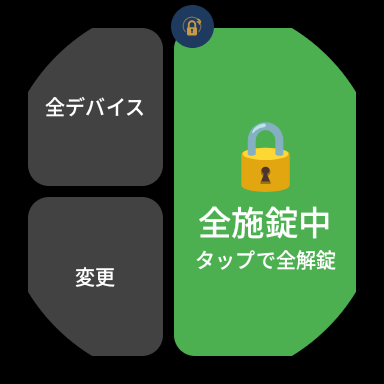
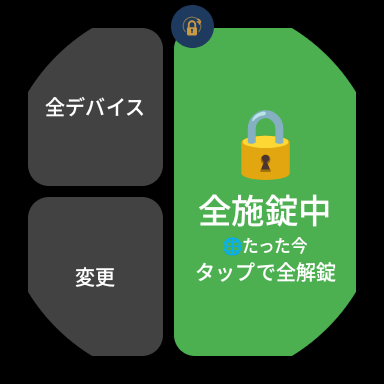
chore: 0.13.0のリリース確定とストア掲載情報の更新 (BL-154 / BL-196 / BL-197 / BL-198) (#57)
* chore: 🚀 0.13.0のリリース準備を行う (BL-154 / BL-196)

* docs: 📸 0.13.0の掲載スクリーンショットを撮り直す (BL-197 / BL-198)

* docs: :memo: update settings vscode

Changed region(s): [[0.5, 0.2812, 0.875, 0.75]]

diff --git a/docs/records/managed/BACKLOG.md b/docs/records/managed/BACKLOG.md
@@ -5,6 +5,62 @@
 
 <!-- COPILOT_RECORDS:BEGIN -->
 ```yaml
+- id: BL-198
+  区分: 人手検証
+  タスク内容: >-
+    Wear OS用の掲載スクリーンショット6枚（`docs/store/images/screenshots/wear_1`〜`wear_6`）を
+    0.13.0の表示へ撮り直す。現行は2026-09-06撮影で、0.13.0でタイルに加わった経路の印
+    （🔗＝Bluetooth / 🌐＝インターネット）と最終取得時刻が写っていない。
+    2026-09-21にWear OSエミュレータ（AVD `wearos`、Wear OS 5 / 384x384）で撮影を試み、
+    `SesameWearDebugReceiver`でデバイス一覧と状態（`route BLE`）を注入してタイルを表示するところ
+    までは成功したが、**タイルの右チップが常に「スマホ未接続」表示になるため掲載には使えない**
+    （2台のエミュレータはペア設定できない。`docs/INSTALL.md`「1.8」）。
+    Pixel Watch 2実機をadb接続して撮り直す。撮影手順はSkill `realmachine-verification`第4節、
+    加工と保存先はSkill `store-screenshot-capture`。
+    2026-09-21に実機で`wear_2_tile_locked.png`（全施錠中）と`wear_3_tile_unlocked.png`（全解錠中）を
+    撮り直し済み。どちらも経路の印（🌐）と「たった今」が写っている。`wear_5_unlock_confirm.png`は
+    撮り直した画像が既存とバイト単位で一致したため差し替え不要（0.13.0でも表示が変わっていない）。
+    **残りは`wear_1_complication.png`（文字盤の編集が必要）、`wear_4_tile_mixed.png`
+    （1台だけ解錠した状態を作る必要があり、タイルの対象切り替えの反映が不安定で断念）、
+    `wear_6_device_select.png`（実デバイス名が写るためモザイクか、ダミーのデバイス一覧が必要）の3点。**
+    ダミーのデバイス一覧は`SesameWearDebugReceiver`の`--es devices`で注入できるが、
+    2026-09-21の実機では`devices injected: count=2`まで成功しながらタイルの表示名がuuidのままで、
+    名前が反映されなかった（個別の状態注入は反映される）。ここを解決すれば実鍵を動かさずに
+    残り3点を作れる。
+  優先度: P3
+  状態: 進行中
+  担当: ユーザー
+  完了条件: >-
+    タイルの各状態・解錠確認・デバイス選択・コンプリケーションが0.13.0の表示で撮り直され、
+    `docs/store/images/screenshots/` と Play ConsoleのWear OS用の枠へ反映されていること。
+    2026-09-21にタイルの施錠中・解錠中の2点を反映済みで、コンプリケーション・一部解錠・
+    デバイス選択の3点が未実施
+  根拠: >-
+    Wear OS実機を要するため人手検証とする。エミュレータで代替できないことは2026-09-21に確認済み
+  依存: []
+
+- id: BL-197
+  区分: 人手検証
+  タスク内容: >-
+    0.13.0の配信（2026-09-21に両トラックで公開中）を受けて、Play Consoleのストア掲載情報を
+    差し替える。スマートフォン用スクリーンショットは2026-09-21に7枚へ撮り直し済み
+    （`docs/store/images/screenshots/phone_1_widget_locked.png`〜`phone_7_help.png`）。
+    Play Console側の旧6枚を削除してから新しい7枚をこの番号順に投入する
+    （旧`phone_4_widget_config` / `phone_5_credentials` / `phone_6_help`はリポジトリから削除済み）。
+    「詳細な説明」は`docs/store/STORE_LISTING.md`の更新版（BLE経由の操作・経路の表示・電池残量・
+    診断ログ・「アプリが使う権限」を追記済み、2548/4000文字）を転記する。
+    **リリースの審査とは別の送信で行う**（掲載情報の差し戻しでアプリ更新の配信まで止めないため）。
+  優先度: P2
+  状態: 未着手
+  担当: ユーザー
+  完了条件: >-
+    Play Consoleの掲載ページに、新しいスマートフォン用7枚と更新後の「詳細な説明」が反映されていること
+  根拠: >-
+    Play Consoleの操作はブラウザ専用でエージェントが実行できない
+    （rules/guardrails-unified.v1.md セクション12.2）。手順の現在地は
+    `docs/store/PLAY_CONSOLE_STEPS.local.md`「ストア掲載情報の変更手順」が持つ
+  依存: []
+
 - id: BL-195
   区分: 人手検証
   タスク内容: >-
@@ -26,34 +82,6 @@
   根拠: >-
     2026-09-21のBL-193の実機検証で観測した。Sesame実機とHub 3を含む電波環境が要り、
     JVM上の単体テストでは再現できないため人手検証とする
-  依存: []
-
-- id: BL-154
-  区分: 人手検証
-  タスク内容: >-
-    BLE直接操作（BL-152）の配信にあたり、Google Playのデータセーフティ申告・権限の用途説明・
-    ストア掲載情報を更新する。追加される権限はBLUETOOTH_SCAN / BLUETOOTH_CONNECT
-    （API 31以上）とACCESS_FINE_LOCATION（`android:maxSdkVersion="30"`で旧端末限定）。
-    位置情報権限は旧端末限定でも申告の対象になりうるため、Play Consoleの質問に沿って
-    「位置情報を収集・共有しない（BLEスキャンのためだけに宣言している）」ことを説明する。
-    docs/USER_GUIDE.md と docs/RELEASE_NOTES.md への記載は2026-09-19に完了済みのため、
-    残りは Play Console 上の操作と docs/store/STORE_LISTING.md の更新。
-    2026-09-20のBL-190で POST_NOTIFICATIONS も追加したため、こちらも申告・説明の対象に含める
-    （経路が切り替わったことを知らせる通知にだけ使い、収集・共有は行わない）。
-  優先度: P3
-  状態: 未着手
-  担当: ユーザー
-  完了条件: >-
-    データセーフティ申告と権限の用途説明が更新され、審査を通過して配信されていること。
-    利用者向けドキュメントにBLE経由で動作する条件（スマートフォンがSesameの電波圏内にあること）が
-    記載されていること。
-    後者は`docs/USER_GUIDE.md`「近くにあるときはBluetoothで操作する」で満たしている
-    （2026-09-21確認）。残るのはPlay Consoleの操作だけ
-  根拠: >-
-    Play Consoleの操作を伴うため自律ループ実行モードでは実行できない
-    （rules/guardrails-unified.v1.md セクション12.2）。DESIGN.md「BLE直接操作の併用方針」の
-    段階5に対応する。BL-152・BL-153の実装は2026-09-19に完了しており、依存は解消している
-    （申告の対象となる権限は mobile/src/main/AndroidManifest.xml で確定済み）。
   依存: []
 
 - id: BL-149

diff --git a/docs/store/README.md b/docs/store/README.md
@@ -18,12 +18,13 @@ Google Play Console へ提出する掲載情報を、このディレクトリで
 
 | ファイル | 内容 | サイズ |
 | --- | --- | --- |
-| `phone_1_widget_locked.png` | ホーム画面ウィジェット（施錠中、タップで解錠） | 1350x2400 |
+| `phone_1_widget_locked.png` | ホーム画面ウィジェット（施錠中、タップで解錠）。2x1と4x2を並べて表示 | 1350x2400 |
 | `phone_2_widget_unlock_confirm.png` | ウィジェットからの解錠確認ダイアログ | 1350x2400 |
-| `phone_3_widget_unlocked.png` | ホーム画面ウィジェット（解錠中、タップで施錠） | 1350x2400 |
-| `phone_4_widget_config.png` | ウィジェットの操作対象を選ぶ画面（全デバイス／個別） | 1350x2400 |
-| `phone_5_credentials.png` | 資格情報の設定画面（登録済みデバイス一覧と追加フォーム） | 1350x2400 |
-| `phone_6_help.png` | ヘルプのメニュー（値の取得方法・デモ・ウォッチ・ウィジェット） | 1350x2400 |
+| `phone_3_widget_unlocked.png` | ホーム画面ウィジェット（解錠中、タップで施錠）。2台の状態が混在した表示 | 1350x2400 |
+| `phone_4_device_list.png` | アプリ主画面（Sesameごとのカード。状態・電池・角度・最終取得時刻・経路・Bluetoothの到達状況） | 1350x2400 |
+| `phone_5_menu.png` | 右上の「⋮」メニュー（操作の経路・Bluetoothで直接操作・通知・ヘルプ・診断ログ） | 1350x2400 |
+| `phone_6_device_edit.png` | Sesameの追加・編集画面（表示名・uuid・apikey・secretKey） | 1350x2400 |
+| `phone_7_help.png` | ヘルプのメニュー（値の取得方法・デモ・ウォッチ・ウィジェット・Bluetooth） | 1350x2400 |
 | `wear_1_complication.png` | ウォッチフェイスのコンプリケーション（施錠状態の表示） | 384x384 |
 | `wear_2_tile_locked.png` | タイル（全施錠中、タップで全解錠） | 384x384 |
 | `wear_3_tile_unlocked.png` | タイル（全解錠中、タップで全施錠） | 384x384 |
@@ -39,14 +40,28 @@ Google Play Console へ提出する掲載情報を、このディレクトリで
   モックAPI（`scripts/mock-sesame-api.py`）で作っており、実Sesameデバイス・実資格情報は
   使っていません。
 - ファイル名の番号はPlay Consoleへ投入する順序に対応します。スマートフォン用は「ウィジェットの
-  状態表示 → 操作の確認 → 設定 → 資格情報 → ヘルプ」、Wear OS用は「状態表示 → タイルの
+  状態表示 → 操作の確認 → アプリ画面 → 設定 → ヘルプ」、Wear OS用は「状態表示 → タイルの
   各状態 → 操作の確認 → 設定」の流れで並べています。
-- スマートフォン用は2026-09-18に全点を撮り直しました。0.11.0のホーム画面ウィジェット（BL-121〜
-  BL-123）を追加し、ヘルプのメニュー化（BL-113）とウィジェット項目の追加（BL-124）を反映して
-  います。
-- Wear OS用の6点は2026-09-06撮影のものを継続利用します。以降のwear側の変更は文言・色のcoreへの
-  移設（BL-119、表示は不変）と、登録0台のときだけ出るデモ説明文の折り返し修正（BL-114）だけで、
-  この6点の画面には影響しないことを差分で確認済みです。
+- スマートフォン用は2026-09-21に7点すべてを撮り直しました（0.13.0）。スマートフォン画面の
+  カードUIへの刷新（BL-173〜BL-188）、「⋮」メニューへの集約、Sesameの追加・編集画面の独立、
+  ウィジェットの2x1化と経路・電池の表示（BL-189〜BL-195）を反映しています。旧構成の
+  `phone_4_widget_config.png` / `phone_5_credentials.png` / `phone_6_help.png` は削除しました。
+- `phone_4_device_list.png` のカードに出る「Bluetooth：圏内（たった今確認）」と経路の
+  「Bluetooth」は、BLEの到達実績の保存値（`sesami_wear_ble_reachability.xml`）と状態の保存値
+  （`sesami_wear_lock_state.xml`）へ、圏内・経路BLEの値を書き込んで再現したものです。
+  エミュレータの近くに実Sesameが無く、そのままでは「圏外」表示になるためで、Sesameの
+  電波圏内にいる利用者が実際に見る表示と同じです（施錠・解錠の状態をモックAPIで作るのと同じ扱い）。
+- Wear OS用のうち `wear_2_tile_locked.png` と `wear_3_tile_unlocked.png` は、2026-09-21に
+  Pixel Watch 2実機で撮り直しました。0.13.0で加わった経路の印（🌐）と最終取得時刻（「たった今」）が
+  写っています。撮影はデバッグ版のタイルから実際に施錠・解錠して行い、終了後に全デバイスの施錠を
+  確認しています（対象は「全デバイス」のため、画面にデバイス名は出ません）。
+  `wear_5_unlock_confirm.png` は0.13.0でも表示が変わっておらず、撮り直した画像が既存とバイト単位で
+  一致したためそのままです。
+- 残る `wear_1_complication.png` / `wear_4_tile_mixed.png` / `wear_6_device_select.png` は
+  2026-09-06撮影のままです。コンプリケーションは文字盤の編集、一部解錠は1台だけを解錠した状態、
+  デバイス選択は実デバイス名が写る画面で、いずれも今回の手順では用意できませんでした（BL-198）。
+  Wear OSエミュレータ（AVD `wearos`）での撮影も試しましたが、スマートフォンのエミュレータと
+  ペア設定できずタイルが常に「スマホ未接続」表示になるため使えません（`docs/INSTALL.md`「1.8」）。
 
 リリースごとの「このリリースの新機能」欄の文面は、このディレクトリではなく
 [../RELEASE_NOTES.md](../RELEASE_NOTES.md) の各バージョンの「ストア掲載用の要約」で管理します。

diff --git a/CHANGELOG.md b/CHANGELOG.md
@@ -7,6 +7,57 @@
 - コード修正1件ごとの実施記録: [docs/records/managed/EXECUTE.md](docs/records/managed/EXECUTE.md)
 - 本ファイル: 上記以外（運用ルール、ドキュメント構成、ガードレールの変更）
 
+## 2026-09-21（0.13.0の配信完了と掲載スクリーンショットの撮り直し）
+
+0.13.0 がクローズドテストの両トラックで公開中になりました。あわせて、スマートフォン用の掲載
+スクリーンショットを 0.13.0 の画面へ全点撮り直しています。
+
+- **BL-196（完了）**: 0.13.0（mobile の `versionCode 8` / wear の `versionCode 1006`）を両トラックへ
+  アップロードし、公開中になりました。
+- **BL-154（完了）**: データセーフティの収集項目は 0.12.0 から変更がなく（`apikey` と `uuid` の2点）、
+  0.13.0 で増えた権限（`BLUETOOTH_SCAN` / `BLUETOOTH_CONNECT` / `ACCESS_FINE_LOCATION` /
+  `POST_NOTIFICATIONS`）について Play Console から用途の説明を求められることはありませんでした。
+  申告の転記元は `docs/store/STORE_LISTING.md`「アプリが使う権限」として残しています。
+- **`docs/store/images/screenshots/`**: スマートフォン用を Android エミュレータで7枚撮り直しました
+  （`phone_1_widget_locked` / `phone_2_widget_unlock_confirm` / `phone_3_widget_unlocked` /
+  `phone_4_device_list` / `phone_5_menu` / `phone_6_device_edit` / `phone_7_help`）。
+  旧構成の `phone_4_widget_config` / `phone_5_credentials` / `phone_6_help` は削除しています。
+  `phone_4_device_list` の「Bluetooth：圏内」と経路「Bluetooth」は、エミュレータの近くに実 Sesame が
+  無いため保存値へ圏内・経路BLEの値を書き込んで再現しました（施錠状態をモック API で作るのと同じ扱いで、
+  Sesame の電波圏内にいる利用者が実際に見る表示です）。
+- **Wear OS 用はタイルの2枚を Pixel Watch 2 実機で撮り直しました。**
+  `wear_2_tile_locked` と `wear_3_tile_unlocked` に、0.13.0 で加わった経路の印と最終取得時刻が
+  写っています。撮影はデバッグ版のタイルから実際に施錠・解錠して行い（ユーザーの判断）、
+  終了後に全デバイスの施錠を確認し、追加したタイルと画面消灯時間、タイルの対象割り当てを
+  すべて元へ戻しています。`wear_5_unlock_confirm` は撮り直した画像が既存とバイト単位で一致した
+  ため差し替えていません（0.13.0 でも表示が変わっていない）。
+  コンプリケーション・一部解錠・デバイス選択の3点は未実施で、**BL-198** に残しています。
+  Wear OS エミュレータ（AVD `wearos`）でも試しましたが、2台のエミュレータをペア設定できず
+  タイルが常に「スマホ未接続」表示になるため使えませんでした。
+- **[docs/store/README.md](docs/store/README.md)** と
+  **[docs/store/STORE_LISTING.md](docs/store/STORE_LISTING.md)** の内訳表・撮影環境・枚数を更新し、
+  Play Console への掲載情報の差し替え作業を **BL-197** として起票しました。
+
+## 2026-09-21（0.13.0のリリース準備 — リリースノートの確定とストア掲載情報の権限説明）
+
+BLE直接操作を中心とした 0.13.0 を Google Play のクローズドテストへ配信するための準備を行いました。
+
+- **[docs/RELEASE_NOTES.md](docs/RELEASE_NOTES.md)** の 0.13.0 を「未リリース」から
+  「2026-09-21」へ確定し、Play Consoleの「このリリースの新機能」欄へ転記する
+  「ストア掲載用の要約」（491/500文字）を追加しました。既知の問題の「本バージョンの動作は実機での
+  確認が完了していません」は、2026-09-21のBL-193 / BL-194の実機検証で主要な経路を確認できたため
+  削除し、代わりにBL-195で観測した「時間帯によってBluetoothがつながらないことがある」を
+  利用者向けの表現で記載しています。
+- **[docs/store/STORE_LISTING.md](docs/store/STORE_LISTING.md)** へ「アプリが使う権限」節を追加し、
+  0.13.0 で増える権限（`BLUETOOTH_SCAN` / `BLUETOOTH_CONNECT` / `ACCESS_FINE_LOCATION` /
+  `POST_NOTIFICATIONS`）の用途と、位置情報・スキャン結果を収集しないことを明記しました。
+  Play Consoleの権限申告・データセーフティ欄への転記元になります（BL-154）。あわせて「主な機能」へ
+  BLE経由の操作・経路の表示・電池残量・診断ログを追加し、文字数の実測値を更新しました。
+- **[docs/records/managed/BACKLOG.md](docs/records/managed/BACKLOG.md)** へ 0.13.0 の配信作業を
+  BL-196 として起票し、BL-154 の残作業を「Play Console上の操作だけ」へ更新しました。
+- **`scripts/version.properties`** を `versionCode 8` / `wear 1006` / `versionName 0.13.0` へ
+  更新し、署名付きAAB×2をビルドしました（`scripts/release-build.bat -VersionName 0.13.0`）。
+
 ## 2026-09-21（BL-191の実機検証を実施し、BLE失敗分岐の再現手順をスキルへ追加）
 
 BLEの失敗理由で到達実績を消すかどうかを分ける挙動（BL-191）を Pixel 8 Pro で検証しました。
